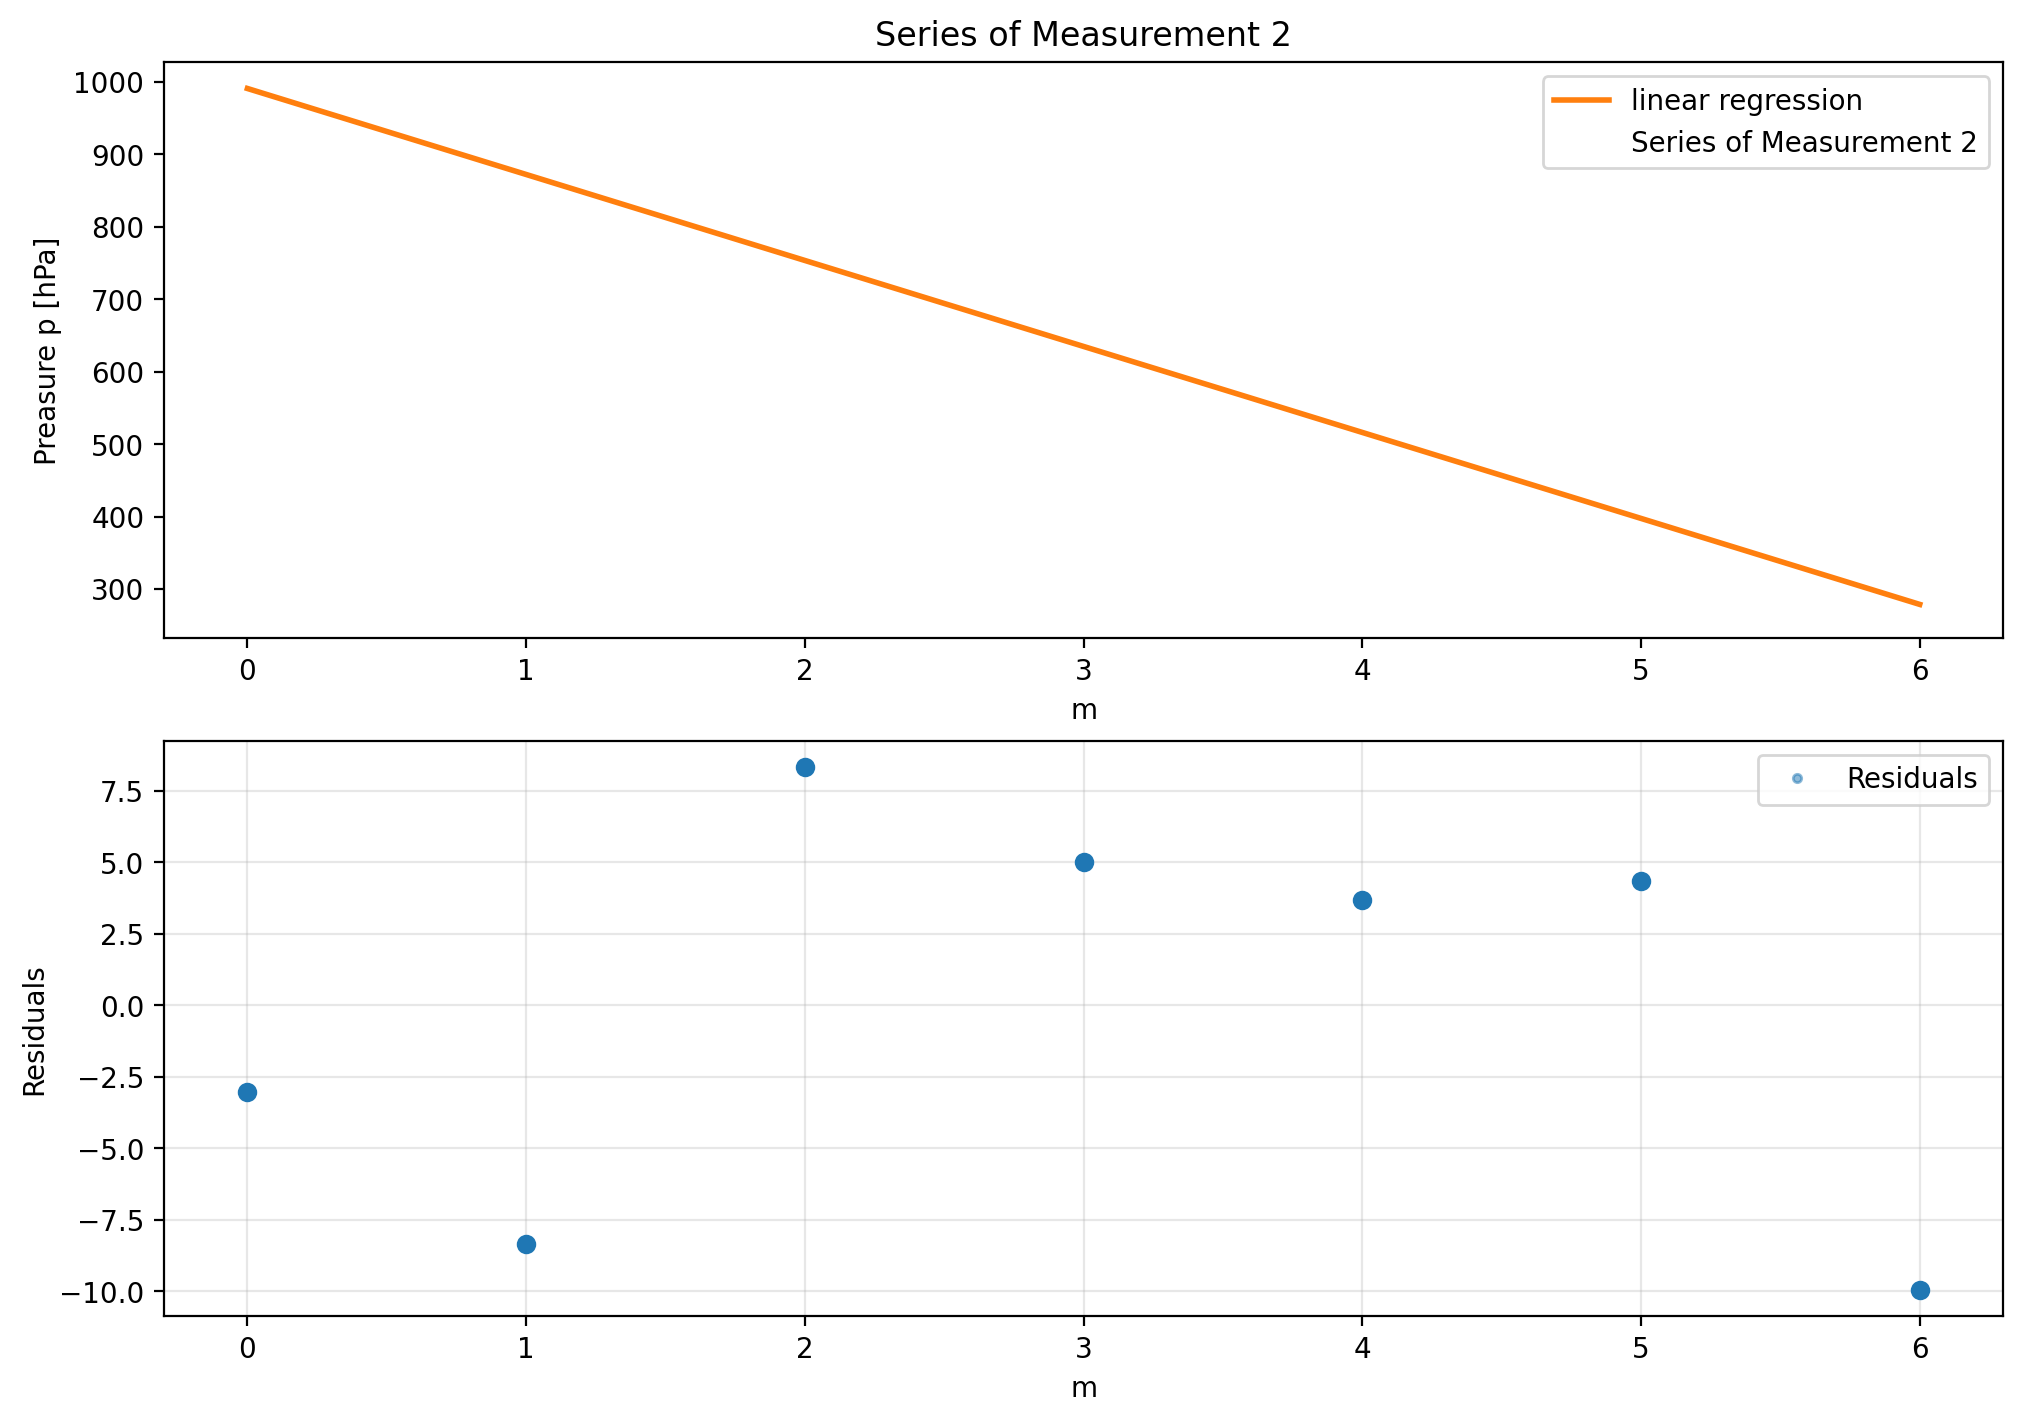
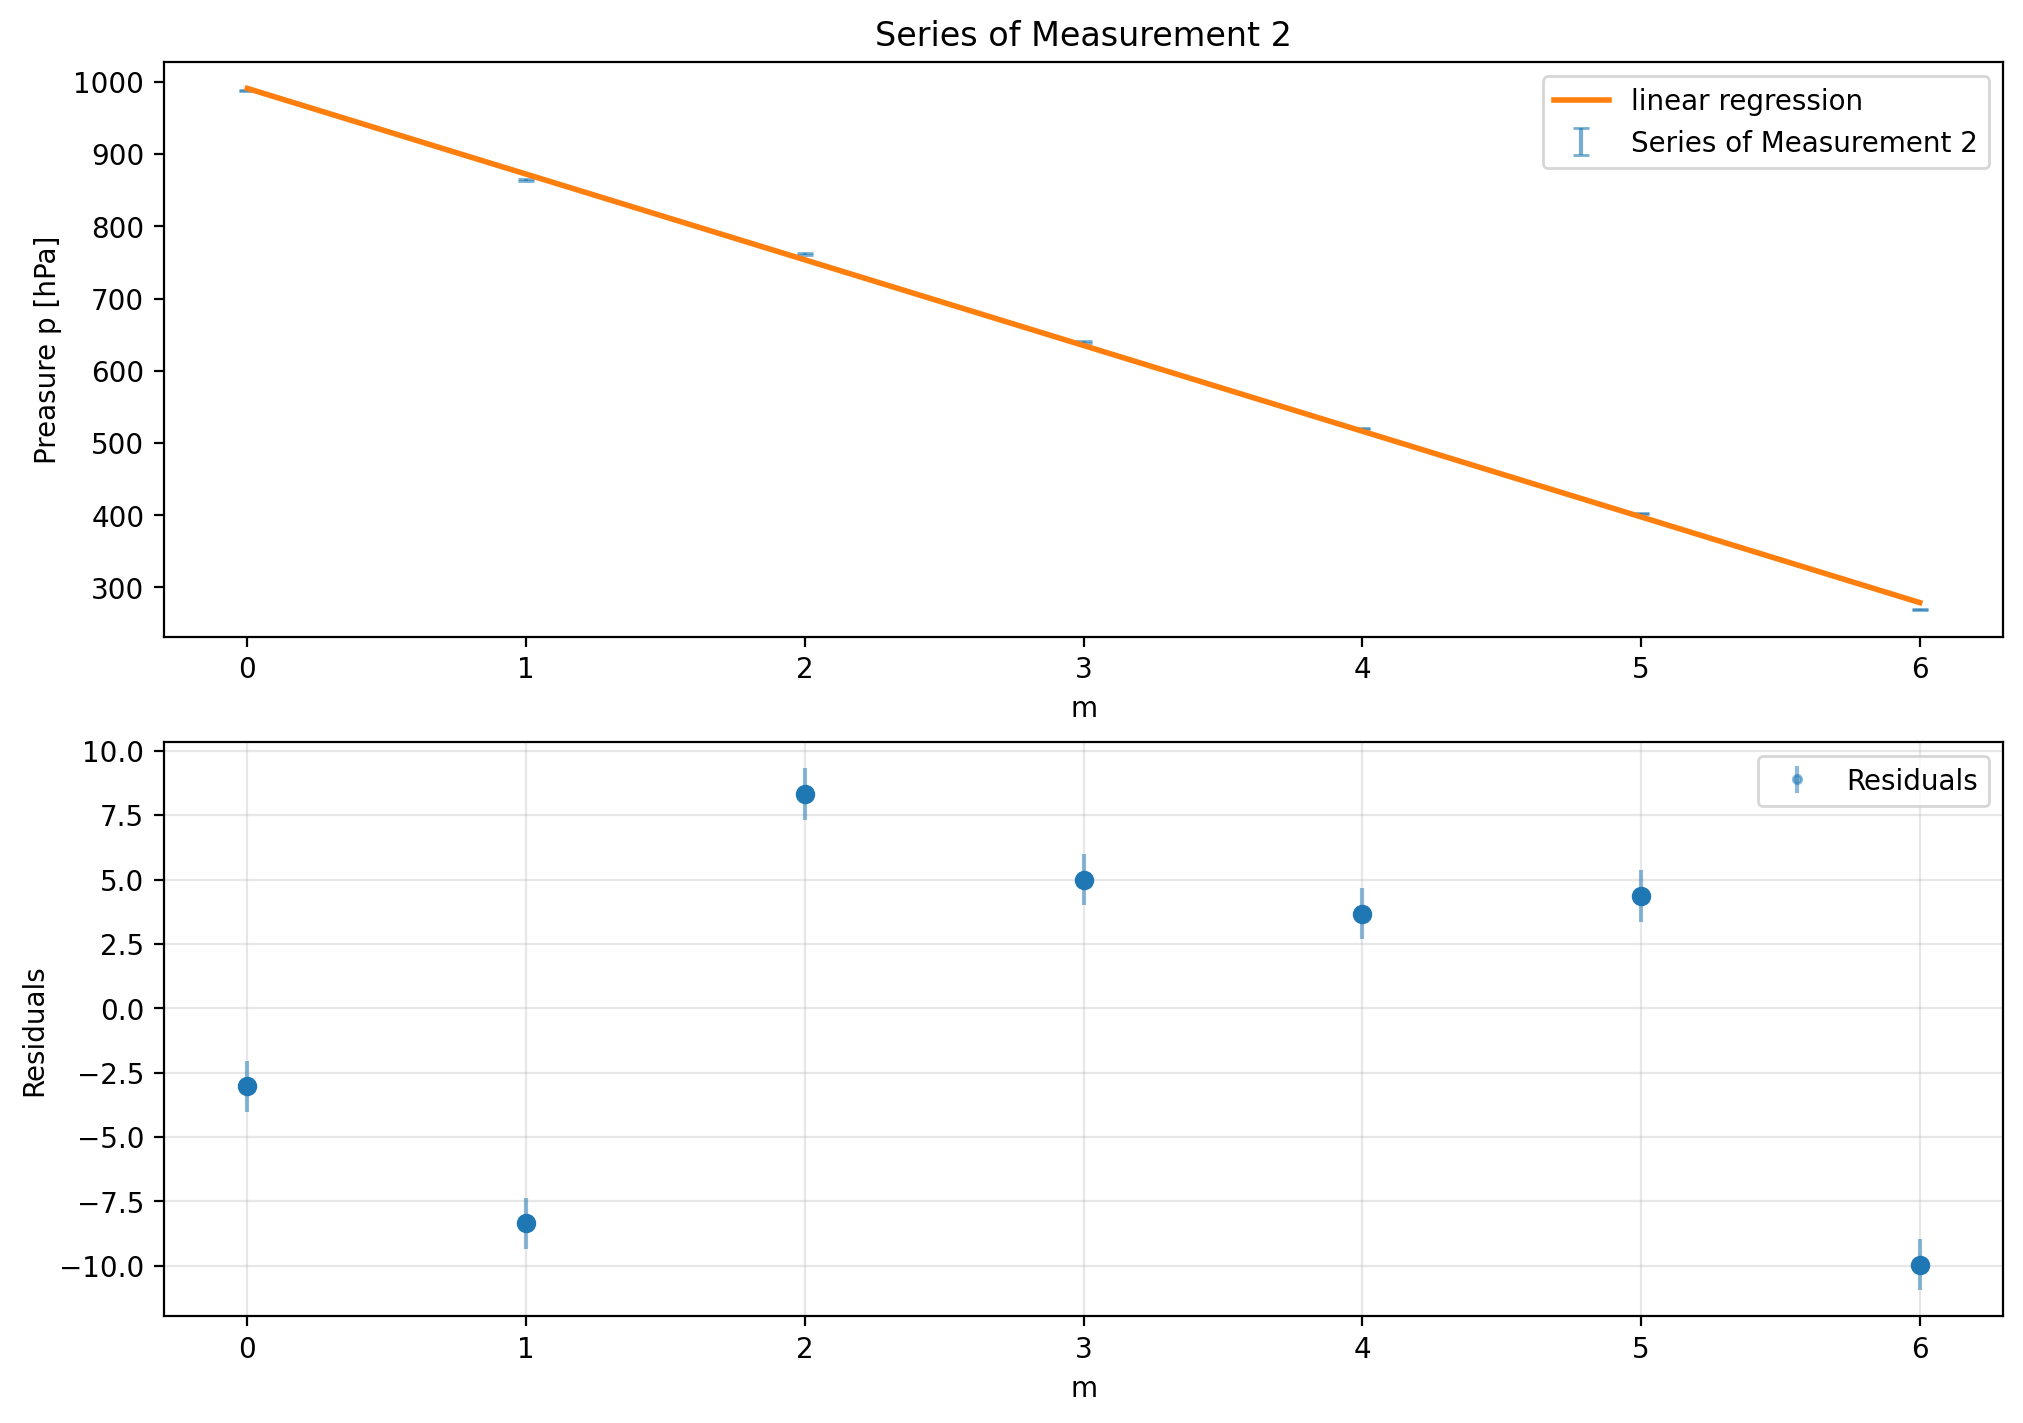
ka kleine änderungen

diff --git a/V3_Optik2/Valentin/auswertung.py b/V3_Optik2/Valentin/auswertung.py
@@ -111,7 +111,7 @@ def DATA_analyse(DATA, noise_sigma, y_label, dateiname_zusatz, i):
     inter = 1
     rs.plot(
         m,
-        (p - fit),
+        residuals,
         marker='o',
         ls='',
         color='tab:blue',
@@ -119,7 +119,7 @@ def DATA_analyse(DATA, noise_sigma, y_label, dateiname_zusatz, i):
     )
     rs.errorbar(
         m,
-        (p - fit),
+        residuals,
         fmt='.',
         color='tab:blue',
         yerr=noise_sigma, ### idk
@@ -144,9 +144,9 @@ ea_p_list       = []
 eb_p_list       = []
 chiq_dof_p_list = []
 for i, DATA in enumerate(DATA_kum_p):
-    a_p, b_p, ea_p, eb_p, chiq_dof_p, _ = DATA_analyse([DATA_preasure_m, DATA], None, 'Preasure p [hPa]', 'Druck', i)
+    a_p, b_p, ea_p, eb_p, chiq_dof_p, _ = DATA_analyse([DATA_preasure_m, DATA], 1, 'Preasure p [hPa]', 'Druck', i) # sigma ca = 8 ?? idk
     
-    print(f'\nFit {i}:')
+    print(f'\nFit {i+1}:')
     print(f'a = ({a_p:.4f} +/- {ea_p:.4f})')
     print(f'b = ({b_p:.4f} +/- {eb_p:.4f})')
     print(f'Chi2 / dof = {chiq_dof_p:.5f}')
@@ -180,7 +180,7 @@ chiq_dof_k_list = []
 for i, DATA in enumerate(DATA_kum_k):
     a_k, b_k, ea_k, eb_k, chiq_dof_k, _ = DATA_analyse([DATA_kappa_m, DATA], sigma_red, 'kappa', 'Kappa', i)
     
-    print(f'\nFit {i}:')
+    print(f'\nFit {i+1}:')
     print(f'a = ({a_k:.4f} +/- {ea_k:.4f})')
     print(f'b = ({b_k:.4f} +/- {eb_k:.4f})')
     print(f'Chi2 / dof = {chiq_dof_k:.5f}')
@@ -215,7 +215,7 @@ chiq_dof_l_list = []
 for i, DATA in enumerate(DATA_kum_l):
     a_l, b_l, ea_l, eb_l, chiq_dof_l, _ = DATA_analyse([DATA_lambda_m, DATA], sigma_green, 'lambda', 'Lambda', i)
     
-    print(f'\nFit {i}:')
+    print(f'\nFit {i+1}:')
     print(f'a = ({a_l:.4f} +/- {ea_l:.4f})')
     print(f'b = ({b_l:.4f} +/- {eb_l:.4f})')
     print(f'Chi2 / dof = {chiq_dof_l:.5f}')
